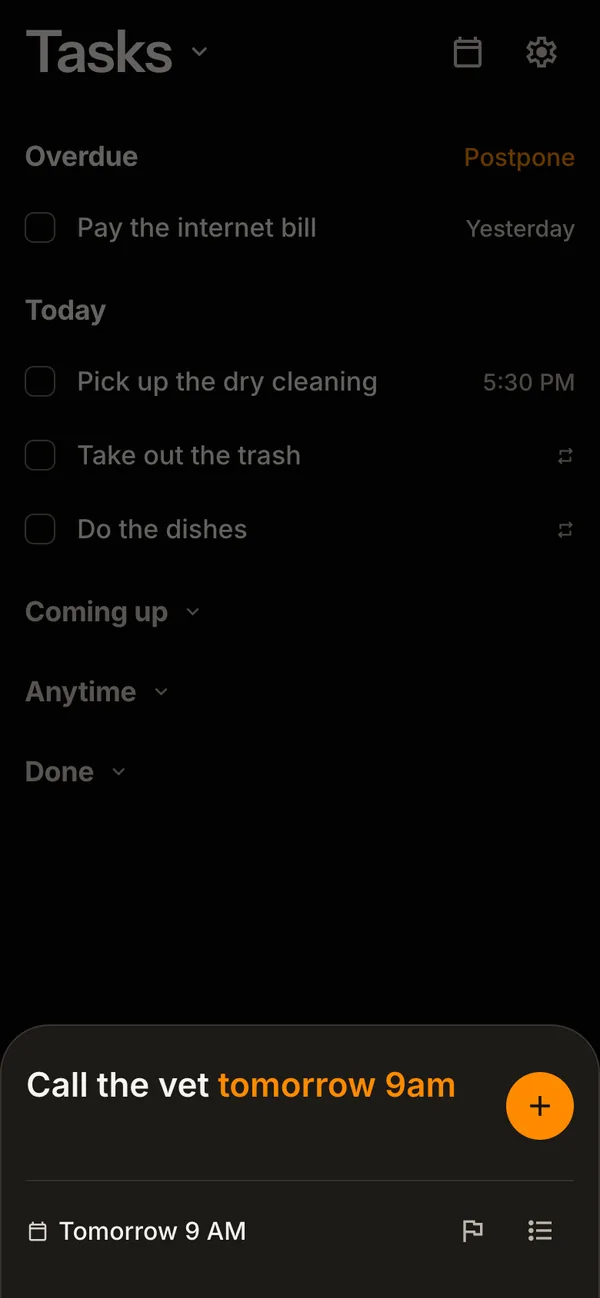
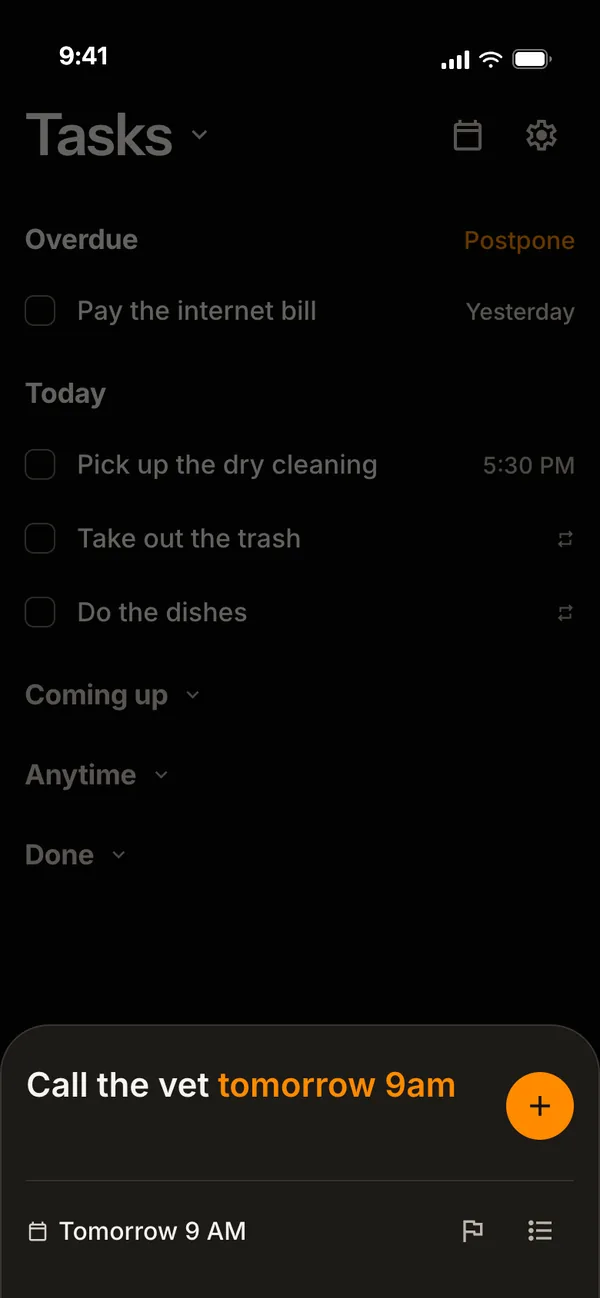
Lava Tasks screens: add a status bar and top inset so content clears the phone's top edge

diff --git a/src/pages/LavaTasks.svelte b/src/pages/LavaTasks.svelte
@@ -77,7 +77,7 @@
       <span class="tech-label">02 · Screens</span>
       <h2>What it looks like</h2>
       <p style="max-width:40rem;color:var(--text-3);font-size:0.95rem;line-height:1.65;margin-top:0.6rem;">
-        The current build, in a browser, on sample data. The browser draws Inter. The phone uses its own type.
+        The current build, in a browser, on sample data. The browser draws Inter, where the phone uses its own type. I added the status bar.
       </p>
 
       <div class="phone-grid">
